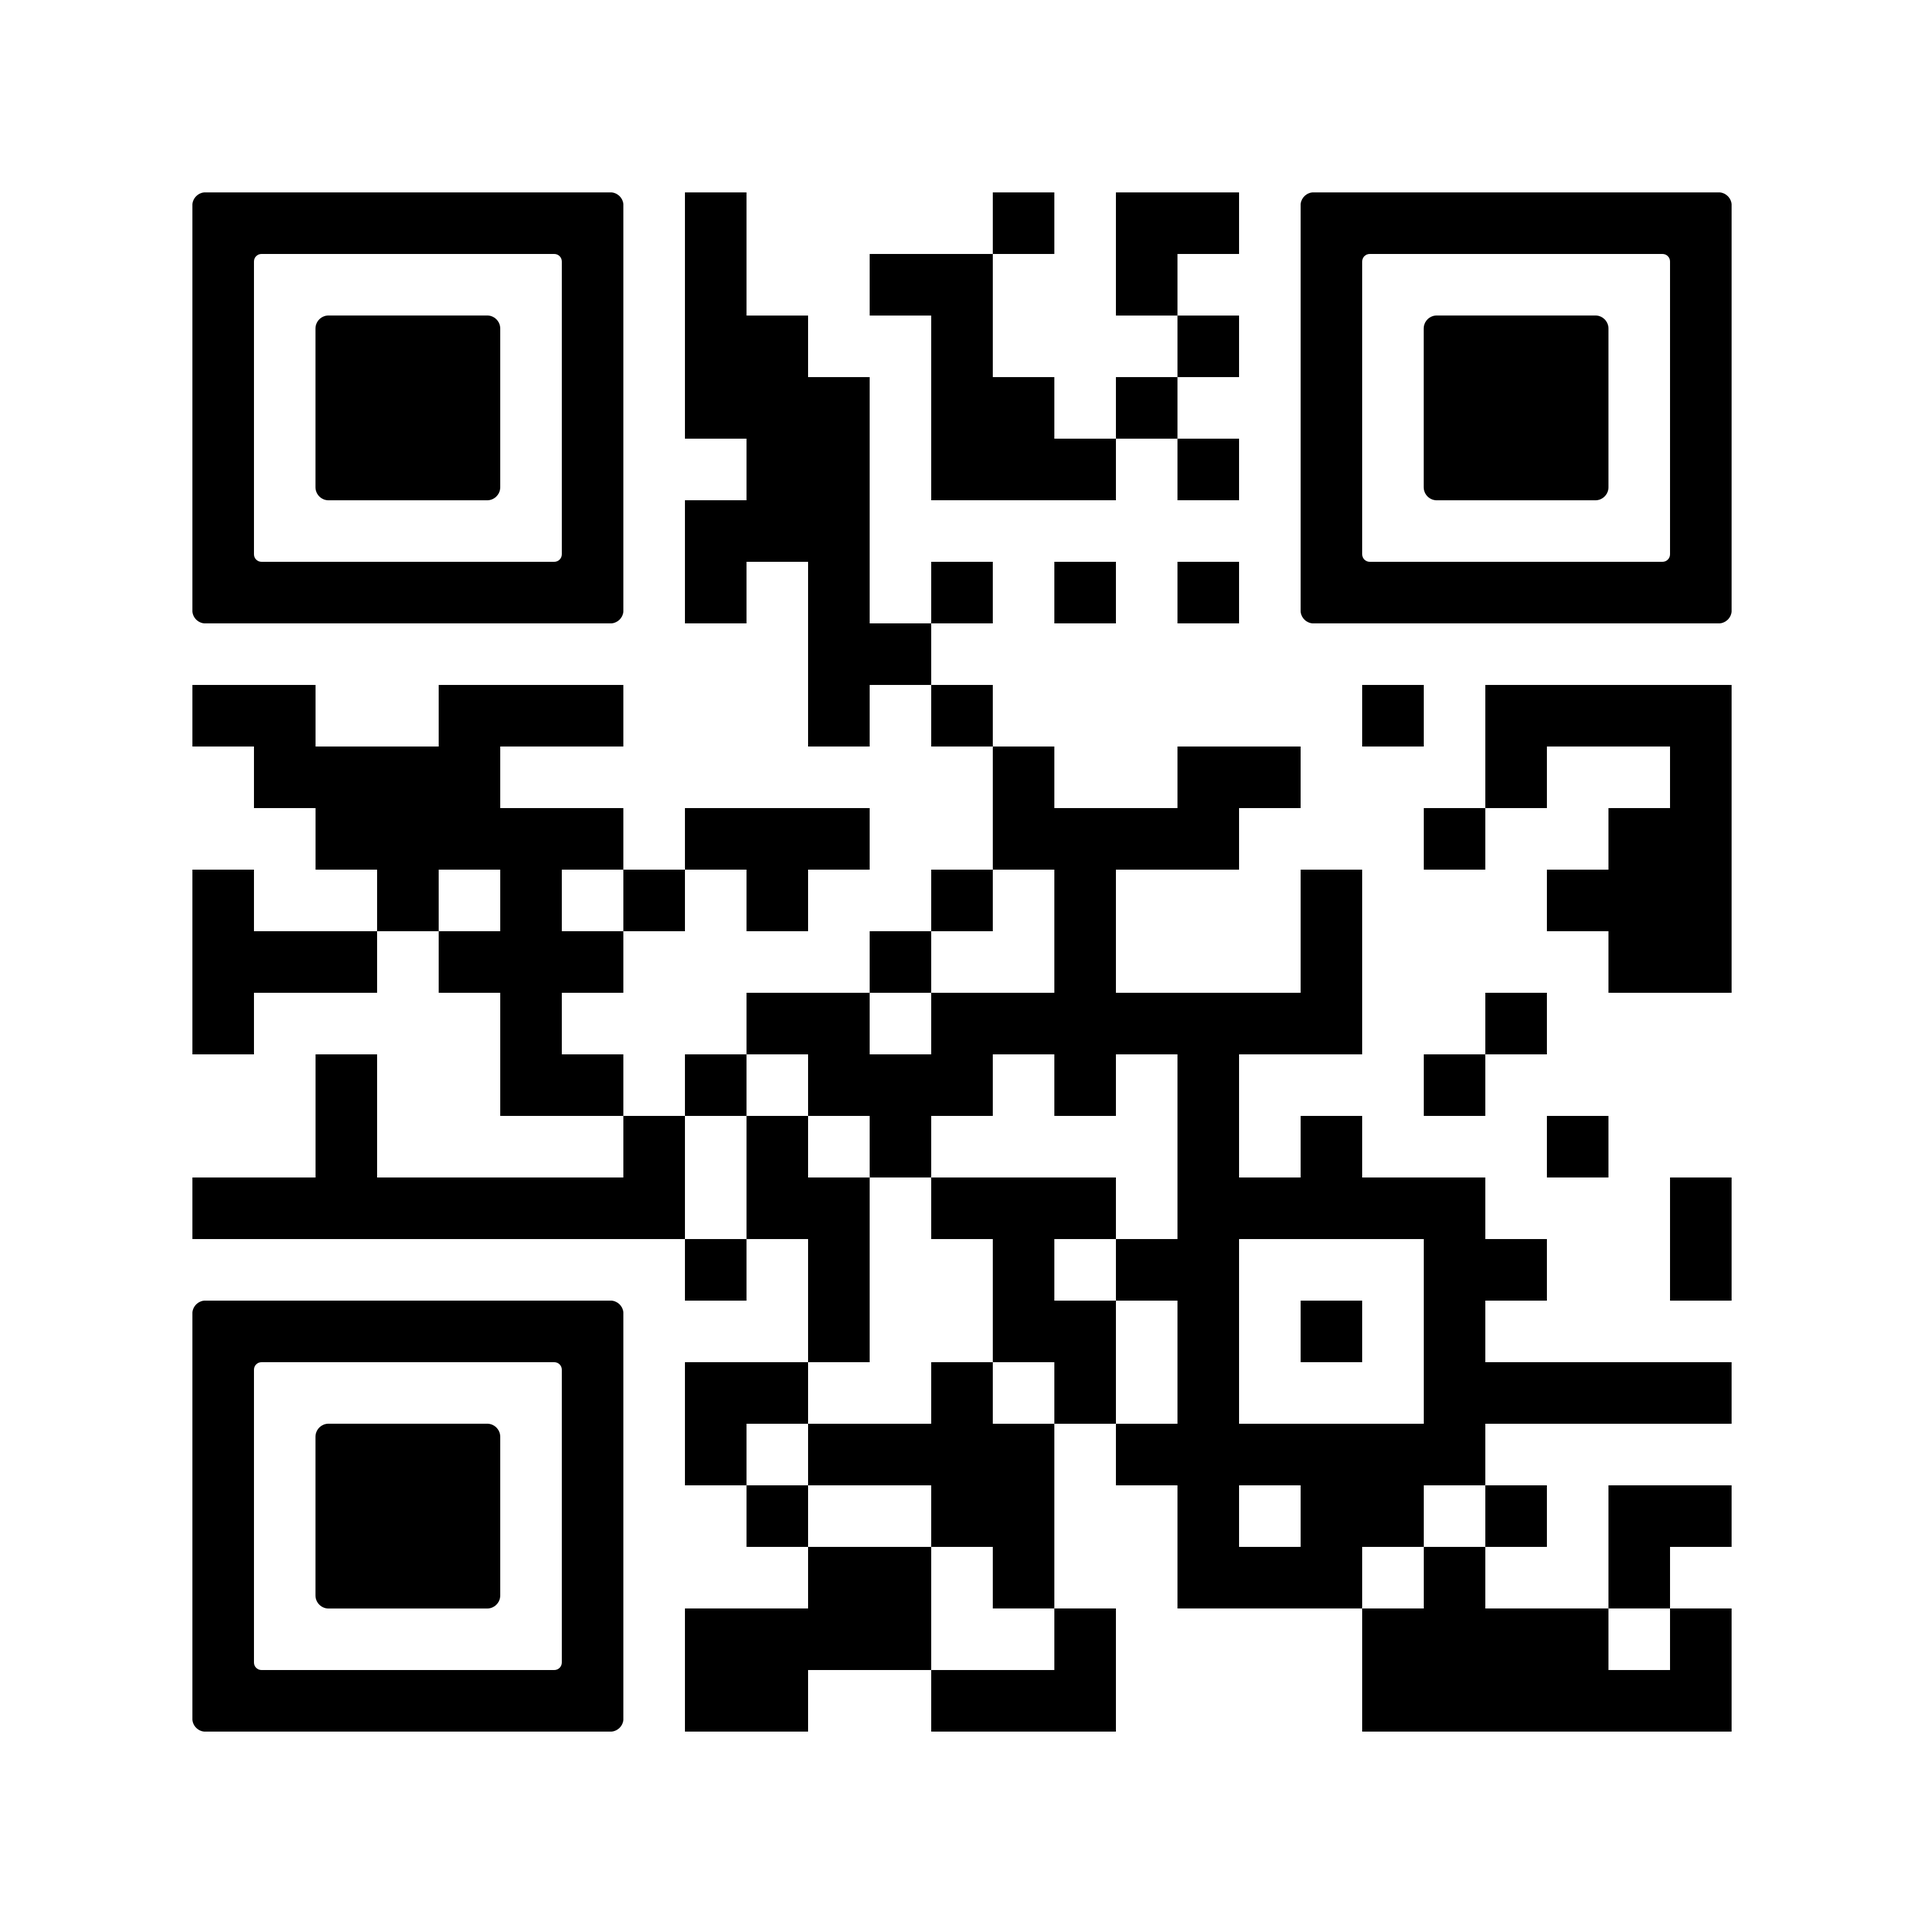
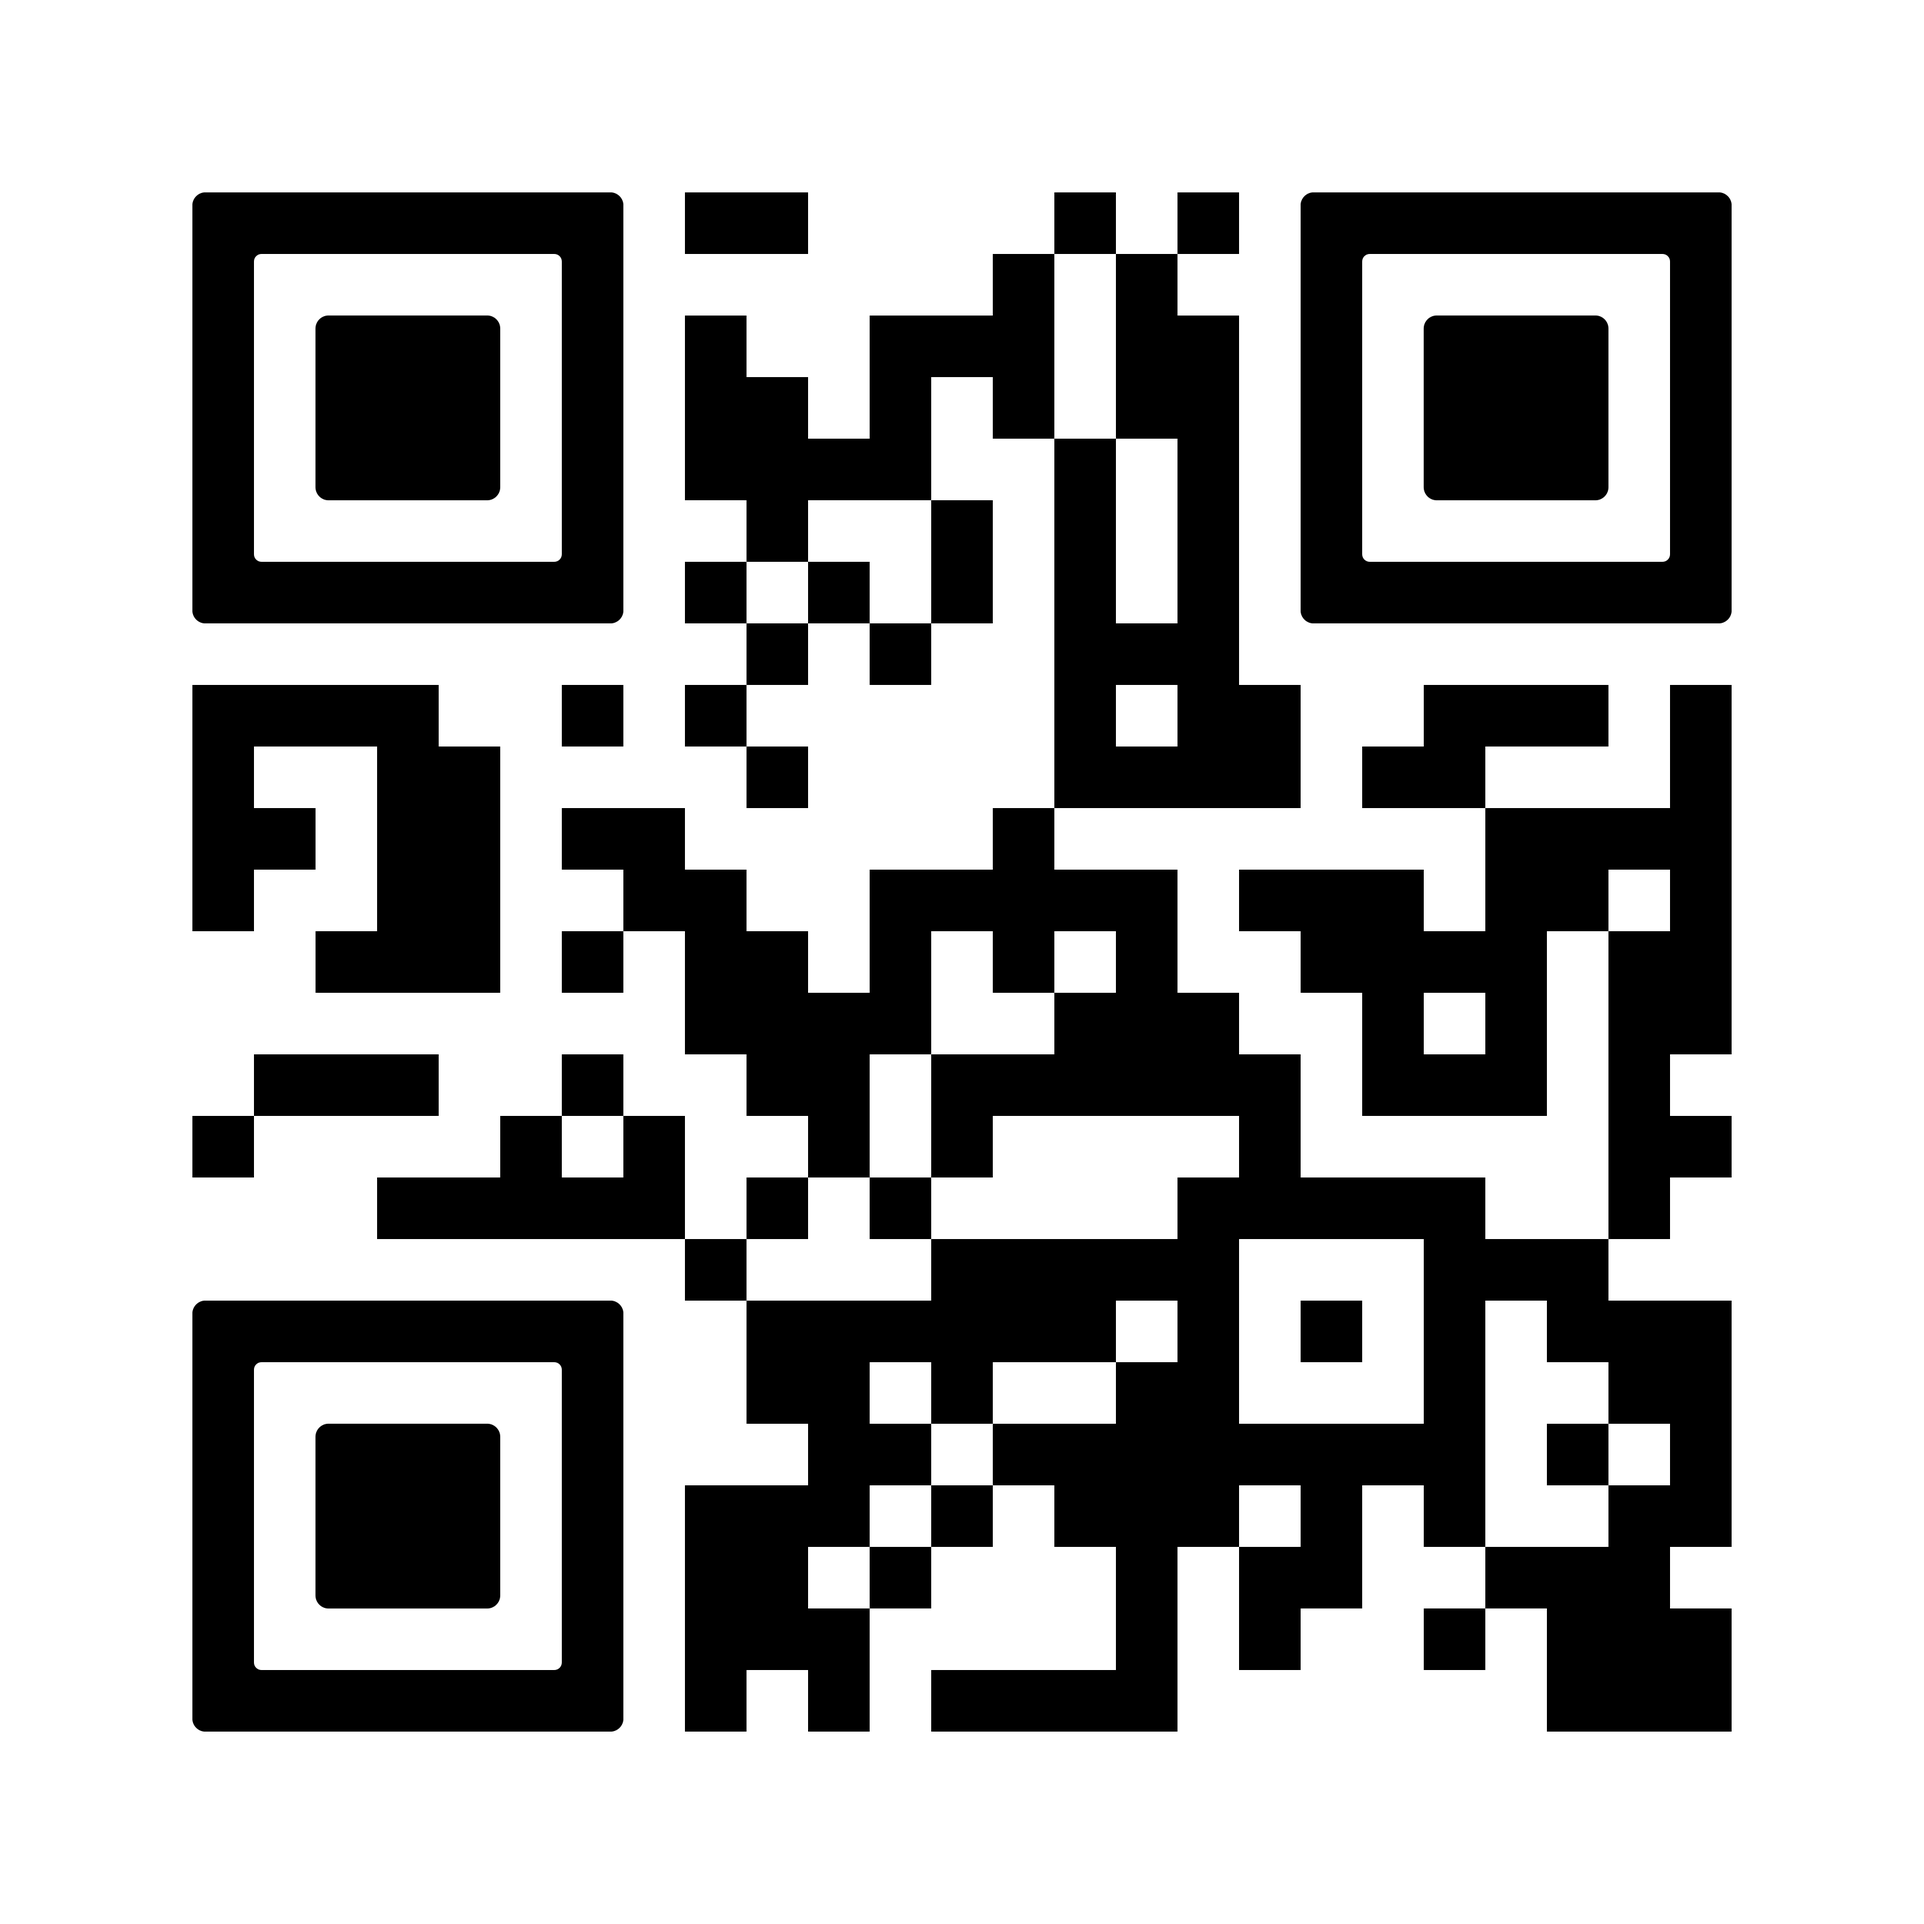
May 17 (6th)

Changed region(s): [[0.093, 0.093, 0.899, 0.899], [0.837, 0.341, 0.868, 0.403], [0.837, 0.837, 0.868, 0.868]]

diff --git a/backend/resources/views/customer/mobile-app.blade.php b/backend/resources/views/customer/mobile-app.blade.php
@@ -309,7 +309,7 @@
             <h2 class="appdl-card-title">Direct Download</h2>
             <p class="appdl-card-copy">If you are already on your Android phone, tap the button below to open the APK download file.</p>
             <div class="appdl-actions">
-                <a href="https://drive.google.com/file/d/1AZnWwNtpJDn7MQWgTo4BKrHEams2B_mh/view?usp=sharing" class="appdl-btn" target="_blank" rel="noopener">Download APK</a>
+                <a href="https://drive.google.com/file/d/1But4_f2XMylhKfZG6fo_188jSbNdZ8sG/view?usp=sharing" class="appdl-btn" target="_blank" rel="noopener">Download APK</a>
             </div>
             <div class="appdl-note">After downloading, open the APK file on your phone and follow the Android install prompts.</div>
             <div class="appdl-steps" aria-label="Installation reminders">

diff --git a/backend/resources/views/welcome.blade.php b/backend/resources/views/welcome.blade.php
@@ -827,7 +827,7 @@
                 <p class="gst-app-panel-copy">Use this option if you are already browsing on your Android phone.</p>
                 <div class="gst-app-panel-note">After downloading, open the APK file on your phone to install the SolMate app.</div>
                 <div class="gst-hero-actions">
-                    <a href="https://drive.google.com/file/d/1AZnWwNtpJDn7MQWgTo4BKrHEams2B_mh/view?usp=sharing" class="gst-cta-primary" target="_blank" rel="noopener">Download APK</a>
+                    <a href="https://drive.google.com/file/d/1But4_f2XMylhKfZG6fo_188jSbNdZ8sG/view?usp=sharing" class="gst-cta-primary" target="_blank" rel="noopener">Download APK</a>
                 </div>
             </aside>
         </div>
